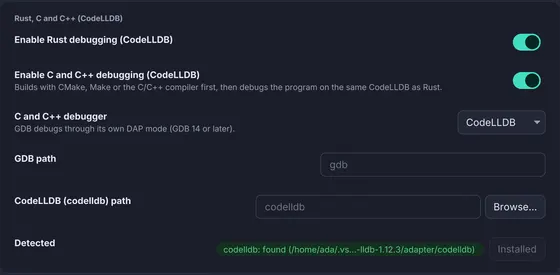
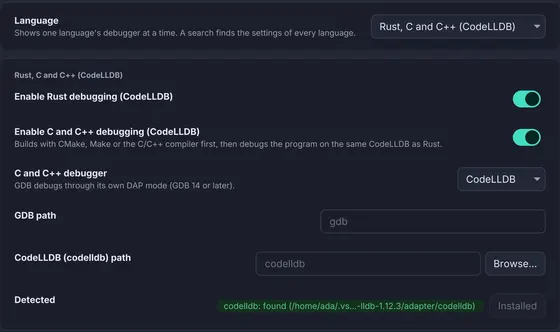
docs: Debugging settings pictures with the Language picker (Editora #1692, #1721)
Settings → Debugging shows one language's card at a time since Editora #1692.
Retaken with Editora's fixed scripts (#1721): debug-settings-go (was
go-rust), debug-settings-cpp, and debug-settings-languages (the picker open,
replacing the C#/Ruby/PHP picture, which can no longer be taken). run-debug
says how the picker works. Also merges master (#141, #143) into this branch.

diff --git a/src/lib/screenshots.ts b/src/lib/screenshots.ts
@@ -451,10 +451,10 @@ const docsShots: Shot[] = [
     alt: "shelf.rs paused on line 49, total += subtotal, with inline values such as item: {sku:\"A-2\", name:\"Notebook\", quantity:3, …} on the lines above, and the Debug window below: the call stack at shelf::shelf::checkout, and Variables with lines, a Vec<String> of size 2, unfolded to \"A-1  Pencil …\" and \"A-2  Notebook …\", then total, item and discount = None",
     more: { href: `${docsBase}/run-debug/`, label: "Read the run debug docs" },
   }),
-  shot("/screenshots/docs/debug-settings-go-rust.png", {
-    title: "Go and Rust debugger settings",
-    caption: "The Go and Rust cards: Delve found where go install puts it, CodeLLDB found in VS Code's extension.",
-    alt: "The Go (Delve) and Rust (CodeLLDB) cards of Settings → Debugging: Enable Go debugging (Delve) on, an empty Delve (dlv) path field with Browse…, Detected dlv: found (/home/ada/go/bin/dlv); Enable Rust debugging (CodeLLDB) on, an empty CodeLLDB (codelldb) path field, and Detected codelldb: found (/home/ada/.vs…-lldb-1.12.3/adapter/codelldb); both Install buttons read Installed",
+  shot("/screenshots/docs/debug-settings-go.png", {
+    title: "Go debugger settings",
+    caption: "The Go card: Delve found where go install puts it.",
+    alt: "The Language picker of Settings → Debugging set to Go (Delve), and under it the Go (Delve) card: Enable Go debugging (Delve) on, an empty Delve (dlv) path field with Browse…, and Detected dlv: found (/home/ada/go/bin/dlv) with the Install button reading Installed",
     more: { href: `${docsBase}/run-debug/`, label: "Read the run debug docs" },
   }),
   shot("/screenshots/docs/debug-history.png", {
@@ -478,13 +478,13 @@ const docsShots: Shot[] = [
   shot("/screenshots/docs/debug-settings-cpp.png", {
     title: "C and C++ debugger settings",
     caption: "The Rust, C and C++ card: C and C++ can switch from CodeLLDB to GDB.",
-    alt: "The Rust, C and C++ (CodeLLDB) card of Settings → Debugging: Enable Rust debugging (CodeLLDB) on, Enable C and C++ debugging (CodeLLDB) on, C and C++ debugger set to CodeLLDB with the hint that GDB debugs through its own DAP mode (GDB 14 or later), an empty GDB path, an empty CodeLLDB (codelldb) path with Browse…, and Detected codelldb: found",
+    alt: "The Language picker of Settings → Debugging set to Rust, C and C++ (CodeLLDB), and under it that card: Enable Rust debugging (CodeLLDB) on, Enable C and C++ debugging (CodeLLDB) on, C and C++ debugger set to CodeLLDB with the hint that GDB debugs through its own DAP mode (GDB 14 or later), an empty GDB path, an empty CodeLLDB (codelldb) path with Browse…, and Detected codelldb: found",
     more: { href: `${docsBase}/run-debug/`, label: "Read the run debug docs" },
   }),
-  shot("/screenshots/docs/debug-settings-csharp-ruby-php.png", {
-    title: "C#, Ruby and PHP debugger settings",
-    caption: "The C#, Ruby and PHP cards, before their debuggers are installed.",
-    alt: "The C# (netcoredbg), Ruby (rdbg) and PHP (Xdebug) cards of Settings → Debugging, each with its Enable switch on, its path field (netcoredbg path, rdbg path, PHP Debug (phpDebug.js) path) with Browse…, a Detected line reading not found, and an Install… button",
+  shot("/screenshots/docs/debug-settings-languages.png", {
+    title: "Debugger language picker",
+    caption: "One language at a time: the Language picker lists every language with a debugger.",
+    alt: "The Language picker of Settings → Debugging open, listing Java, Python, JavaScript (Node.js), Go (Delve), Rust, C and C++ (CodeLLDB), C# (netcoredbg), Ruby (rdbg), PHP (Xdebug) and Bash (bashdb), with C# picked; behind it the C# (netcoredbg) card with its Enable switch, netcoredbg path field and an Install… button",
     more: { href: `${docsBase}/run-debug/`, label: "Read the run debug docs" },
   }),
   shot("/screenshots/docs/debug-sessions.png", {

diff --git a/src/content/docs/run-debug.md b/src/content/docs/run-debug.md
@@ -3268,7 +3268,7 @@ Debug Adapter Protocol mode (`gdb -i dap`), which needs GDB 14 or later. Editora
 finds `gdb` as set in **GDB path** on the same card, else on the PATH; without
 it, Debug says GDB was not found. GDB isn't installed by Editora.
 
-![The Rust, C and C++ (CodeLLDB) card of Settings → Debugging: Enable Rust debugging (CodeLLDB) on, Enable C and C++ debugging (CodeLLDB) on, C and C++ debugger set to CodeLLDB with the hint that GDB debugs through its own DAP mode (GDB 14 or later), an empty GDB path, an empty CodeLLDB (codelldb) path with Browse…, and Detected codelldb: found](/screenshots/docs/debug-settings-cpp.png "The Rust, C and C++ card: C and C++ can switch from CodeLLDB to GDB.")
+![The Language picker of Settings → Debugging set to Rust, C and C++ (CodeLLDB), and under it that card: Enable Rust debugging (CodeLLDB) on, Enable C and C++ debugging (CodeLLDB) on, C and C++ debugger set to CodeLLDB with the hint that GDB debugs through its own DAP mode (GDB 14 or later), an empty GDB path, an empty CodeLLDB (codelldb) path with Browse…, and Detected codelldb: found](/screenshots/docs/debug-settings-cpp.png "The Rust, C and C++ card: C and C++ can switch from CodeLLDB to GDB.")
 
 ### Debugging C#
 
@@ -3625,7 +3625,12 @@ script for each:
 - **Python**: `debugpy`, `scripts/install-debugpy.sh`.
 - **JavaScript**: vscode-js-debug, `scripts/install-js-debug.sh`.
 
-Each card on **Settings → Debugging** has a **Detected** line, for example
+**Settings → Debugging** shows one language's card at a time: pick it in
+**Language**, under **Enable debugging (DAP)**. The cards every language
+shares follow it. A search in Settings ignores the pick and shows the
+matching settings of every language.
+
+Each language's card has a **Detected** line, for example
 *debugpy: found (/usr/bin/python3)* (the interpreter that has debugpy) or
 *js-debug: not found*, also while that language's debugging is switched off.
 The Java, JavaScript, Go, Rust, C#, Ruby and PHP cards also have the adapter's
@@ -3640,9 +3645,9 @@ interpreter of its own, and the one that runs debugpy when the project's
 interpreter cannot import it. A link at the top of the Debugging page leads
 there.
 
-![The Go (Delve) and Rust (CodeLLDB) cards of Settings → Debugging: Enable Go debugging (Delve) on, an empty Delve (dlv) path field with Browse…, Detected dlv: found (/home/ada/go/bin/dlv); Enable Rust debugging (CodeLLDB) on, an empty CodeLLDB (codelldb) path field, and Detected codelldb: found (/home/ada/.vs…-lldb-1.12.3/adapter/codelldb); both Install buttons read Installed](/screenshots/docs/debug-settings-go-rust.png "The Go and Rust cards: Delve found where go install puts it, CodeLLDB found in VS Code's extension.")
+![The Language picker of Settings → Debugging set to Go (Delve), and under it the Go (Delve) card: Enable Go debugging (Delve) on, an empty Delve (dlv) path field with Browse…, and Detected dlv: found (/home/ada/go/bin/dlv) with the Install button reading Installed](/screenshots/docs/debug-settings-go.png "The Go card: Delve found where go install puts it.")
 
-![The C# (netcoredbg), Ruby (rdbg) and PHP (Xdebug) cards of Settings → Debugging, each with its Enable switch on, its path field (netcoredbg path, rdbg path, PHP Debug (phpDebug.js) path) with Browse…, a Detected line reading not found, and an Install… button](/screenshots/docs/debug-settings-csharp-ruby-php.png "The C#, Ruby and PHP cards, before their debuggers are installed.")
+![The Language picker of Settings → Debugging open, listing Java, Python, JavaScript (Node.js), Go (Delve), Rust, C and C++ (CodeLLDB), C# (netcoredbg), Ruby (rdbg), PHP (Xdebug) and Bash (bashdb), with C# picked; behind it the C# (netcoredbg) card with its Enable switch, netcoredbg path field and an Install… button](/screenshots/docs/debug-settings-languages.png "One language at a time: the Language picker lists every language with a debugger.")
 
 For sending HTTP requests from `.http` files, see the
 [HTTP client](/docs/http-client). For Maven, Gradle, npm, Cargo, Go, sbt,
